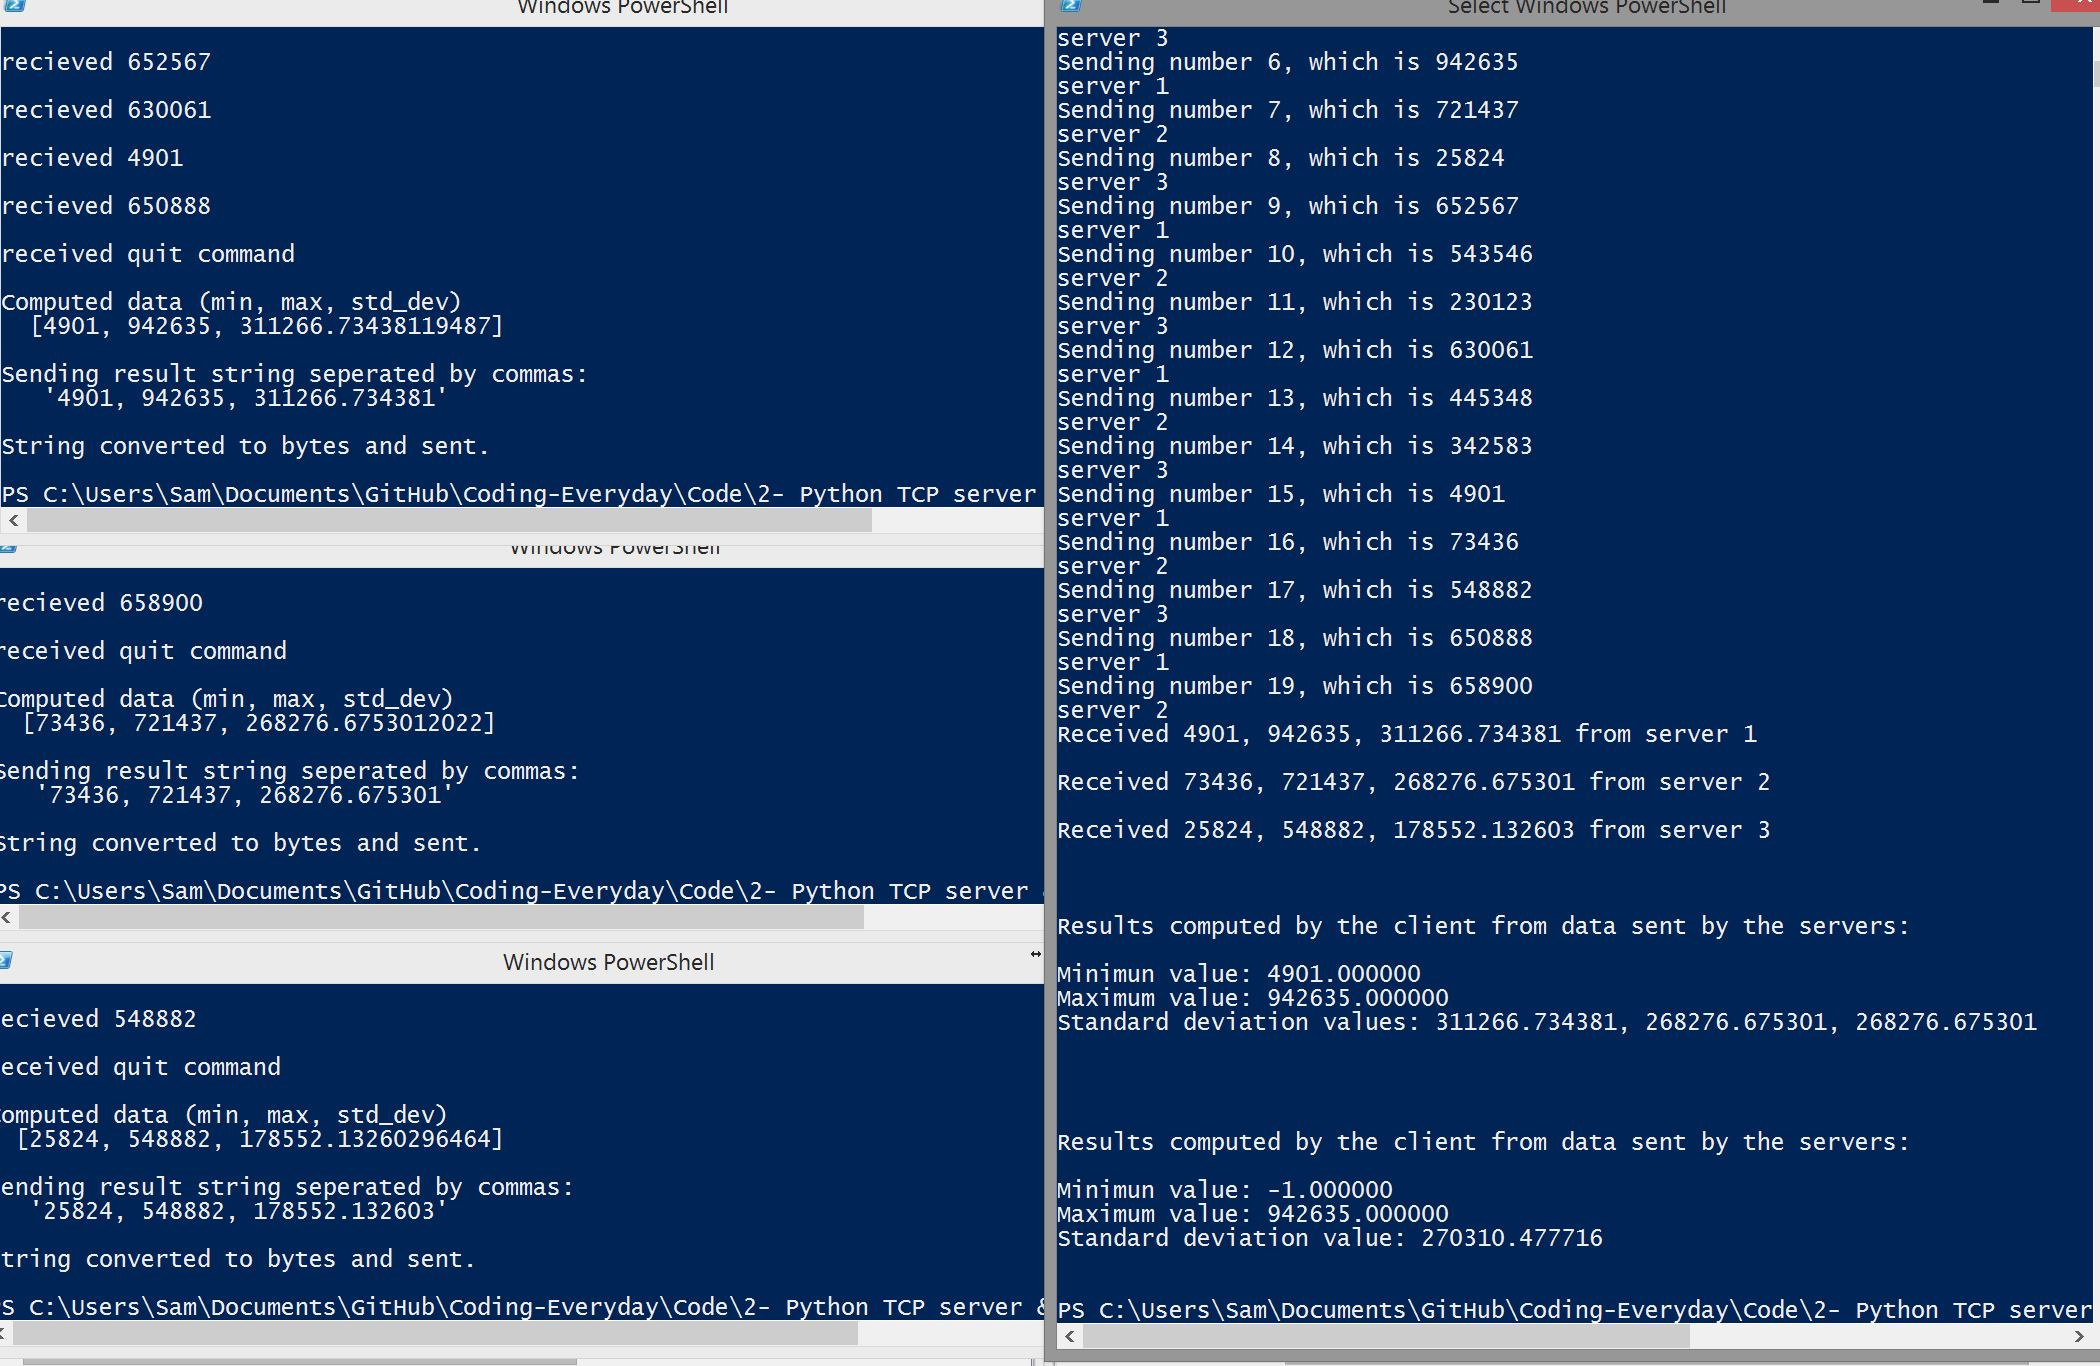
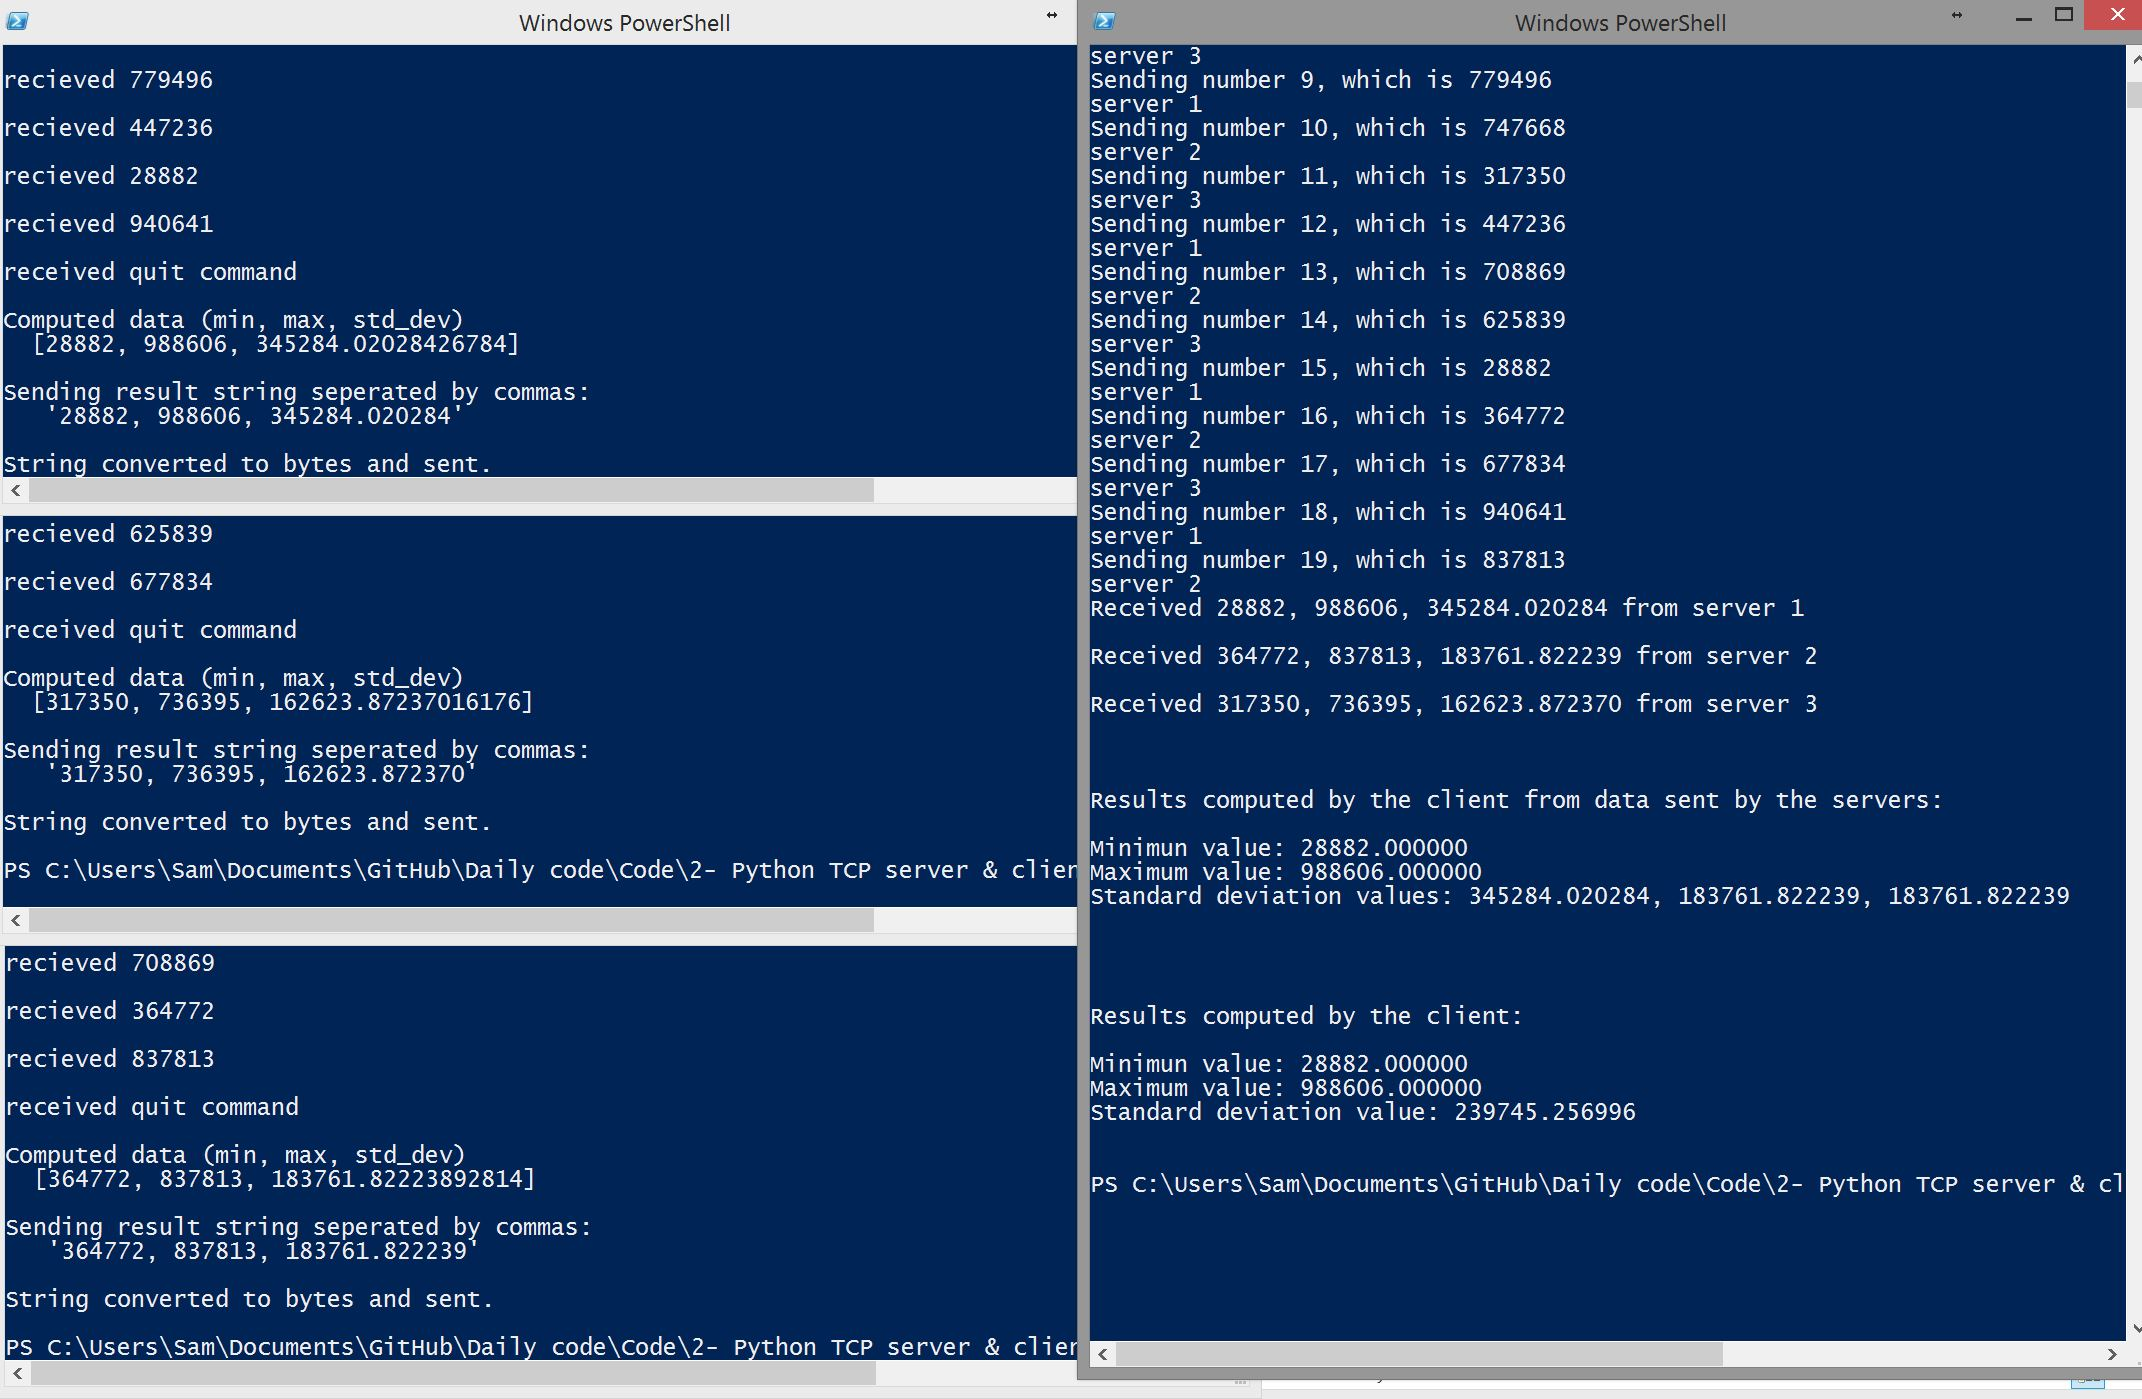
Changed

Changed region(s): [[0.0, 0.0, 1.0, 1.0], [0.7119, 0.6764, 0.8048, 0.7072], [0.8357, 0.6764, 0.8976, 0.7072]]

diff --git a/Code/2- Python TCP server & client distributed processing/client.py b/Code/2- Python TCP server & client distributed processing/client.py
@@ -7,7 +7,7 @@
 #// Language: Python 3.4.1
 #// File Name: client.py
 #//
-#// Programs Purpose:
+#// Programs Purpose:h
 #//   This client program connects to three instances of its corresponding
 #//   server. It then iterates through a list of numbers, sending them to each
 #//   server one at a time.
@@ -154,8 +154,8 @@ def format(numberlist):
     return result_str
 
 def format2(numberlist):
-    result_str =("Results computed by the client from data sent by"\
-    " the servers:\n\nMinimun value: %f \nMaximum value: %f \n"\
+    result_str =("Results computed by the client:"\
+    "\n\nMinimun value: %f \nMaximum value: %f \n"\
     "Standard deviation value: %f" % (numberlist[0],\
     numberlist[1],numberlist[2]))
     return result_str
@@ -340,6 +340,7 @@ output_str = format(result_list)
 print('\n\n' + output_str + '\n\n')
 
 #compute and print out data from this client itself using the original list
+numbers.pop() #there is a -1 at the end of the list, we don't want that any more
 result_list = compute(numbers)
 output_str = format2(result_list)
 print('\n\n' + output_str + '\n\n')
